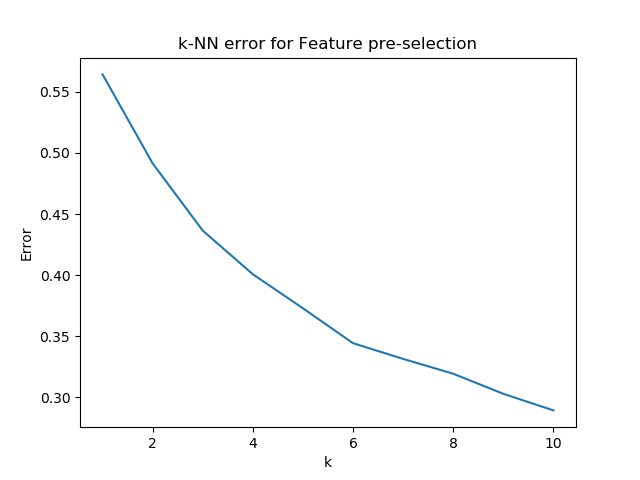
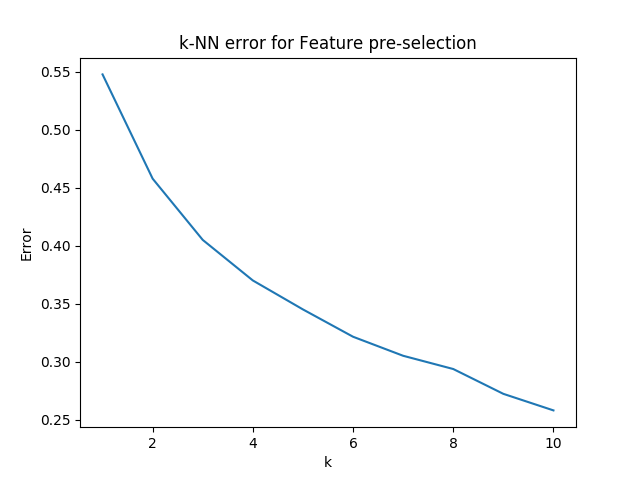
[CW2] Testing Kernel PCA

diff --git a/Coursework 2/kNN_improved_feature_preselection_PCA.py b/Coursework 2/kNN_improved_feature_preselection_PCA.py
@@ -11,7 +11,7 @@ import matplotlib.pyplot as plt
 # Import post process analysing methods
 from learn_distance_metric import find_matrices
 from sklearn.preprocessing import normalize
-from sklearn.decomposition import PCA
+from sklearn.decomposition import KernelPCA
 
 import metric_learn
 
@@ -88,44 +88,12 @@ def analyse_KNN_feature_preselection_PCA(k=10):
     query_features = normalize(query_features, axis=1)
     training_features = normalize(training_features, axis=1)
     gallery_features = normalize(gallery_features, axis=1)
-
-    pca = PCA(n_components=500)
+    pca = KernelPCA(n_components=500, kernel="rbf", n_jobs=-1)
     pca.fit(training_features)
 
     query_features      = pca.transform(query_features)
     training_features   = pca.transform(training_features)
     gallery_features    = pca.transform(gallery_features)
-
-    print(gallery_features.shape)
-
-
-    #A_s,U_s = find_matrices(training_features, training_labels)
-
-#    selector = VarianceThreshold(threshold=(.8 * (1 - .8)))
-#    training_features = selector.fit_transform(training_features, training_labels)
-#    gallery_features = selector.transform(gallery_features)
-#    query_features = selector.transform(query_features)
-
-    #lda_W = LDA(training_features.T, training_labels)[:,:200]
-
-    #training_features = LDA_transform(lda_W,training_features.T)
-    #gallery_features = LDA_transform(lda_W,gallery_features.T)
-    #query_features = LDA_transform(lda_W,query_features.T)
-
-    # setting up LMNN
-    #lmnn = metric_learn.SDML_Supervised(verbose = True, num_constraints=200)
-
-    # fit the data!
-    #lmnn.fit(training_features, training_labels, random_state = np.random.RandomState(1234))
-
-    #M = lmnn.metric()
-
-    #A = np.linalg.cholesky(M)
-
-    # transform our input space
-    #gallery_features = np.matmul(gallery_features,A)
-    #query_features = np.matmul(query_features,A)
-
 
     for i in tqdm(range(len(query_features))):
         query = query_features[i,:]

diff --git a/Coursework 2/kNN_improved_feature_preselection.py b/Coursework 2/kNN_improved_feature_preselection.py
@@ -11,7 +11,8 @@ import matplotlib.pyplot as plt
 # Import post process analysing methods
 from learn_distance_metric import find_matrices
 from sklearn.preprocessing import normalize
-from sklearn.decomposition import PCA
+from sklearn.decomposition import KernelPCA
+from sklearn.discriminant_analysis import LinearDiscriminantAnalysis as LDA
 
 import metric_learn
 
@@ -85,9 +86,24 @@ def analyse_KNN_feature_preselection(k=10):
     errors = [0]*k
     labels= [None]*k
     tops = [0]*k
+
     query_features = normalize(query_features, axis=1)
     training_features = normalize(training_features, axis=1)
     gallery_features = normalize(gallery_features, axis=1)
+    print("potato")
+    pca = KernelPCA(n_components=500)
+    pca.fit(training_features)
+
+    query_features      = pca.transform(query_features)
+    training_features   = pca.transform(training_features)
+    gallery_features    = pca.transform(gallery_features)
+
+    lda = LDA()
+    lda.fit(training_features, training_labels)
+
+    query_features      = lda.transform(query_features)
+    training_features   = lda.transform(training_features)
+    gallery_features    = lda.transform(gallery_features)
 
     #A_s,U_s = find_matrices(training_features, training_labels)
 

diff --git a/Coursework 2/kNN.py b/Coursework 2/kNN.py
@@ -19,7 +19,7 @@ from kNN_cosine import analyse_KNN_cosine
 if __name__ == '__main__':
     k = 10
     #methods = ["Manhattan Distance", "Euclidian Distance", "Cosine"]
-    methods = ["Feature pre-selection PCA"]
+    methods = ["Feature pre-selection"]
     results = {}
     for method in methods:
         labels = errors= tops =  true_labels = None
